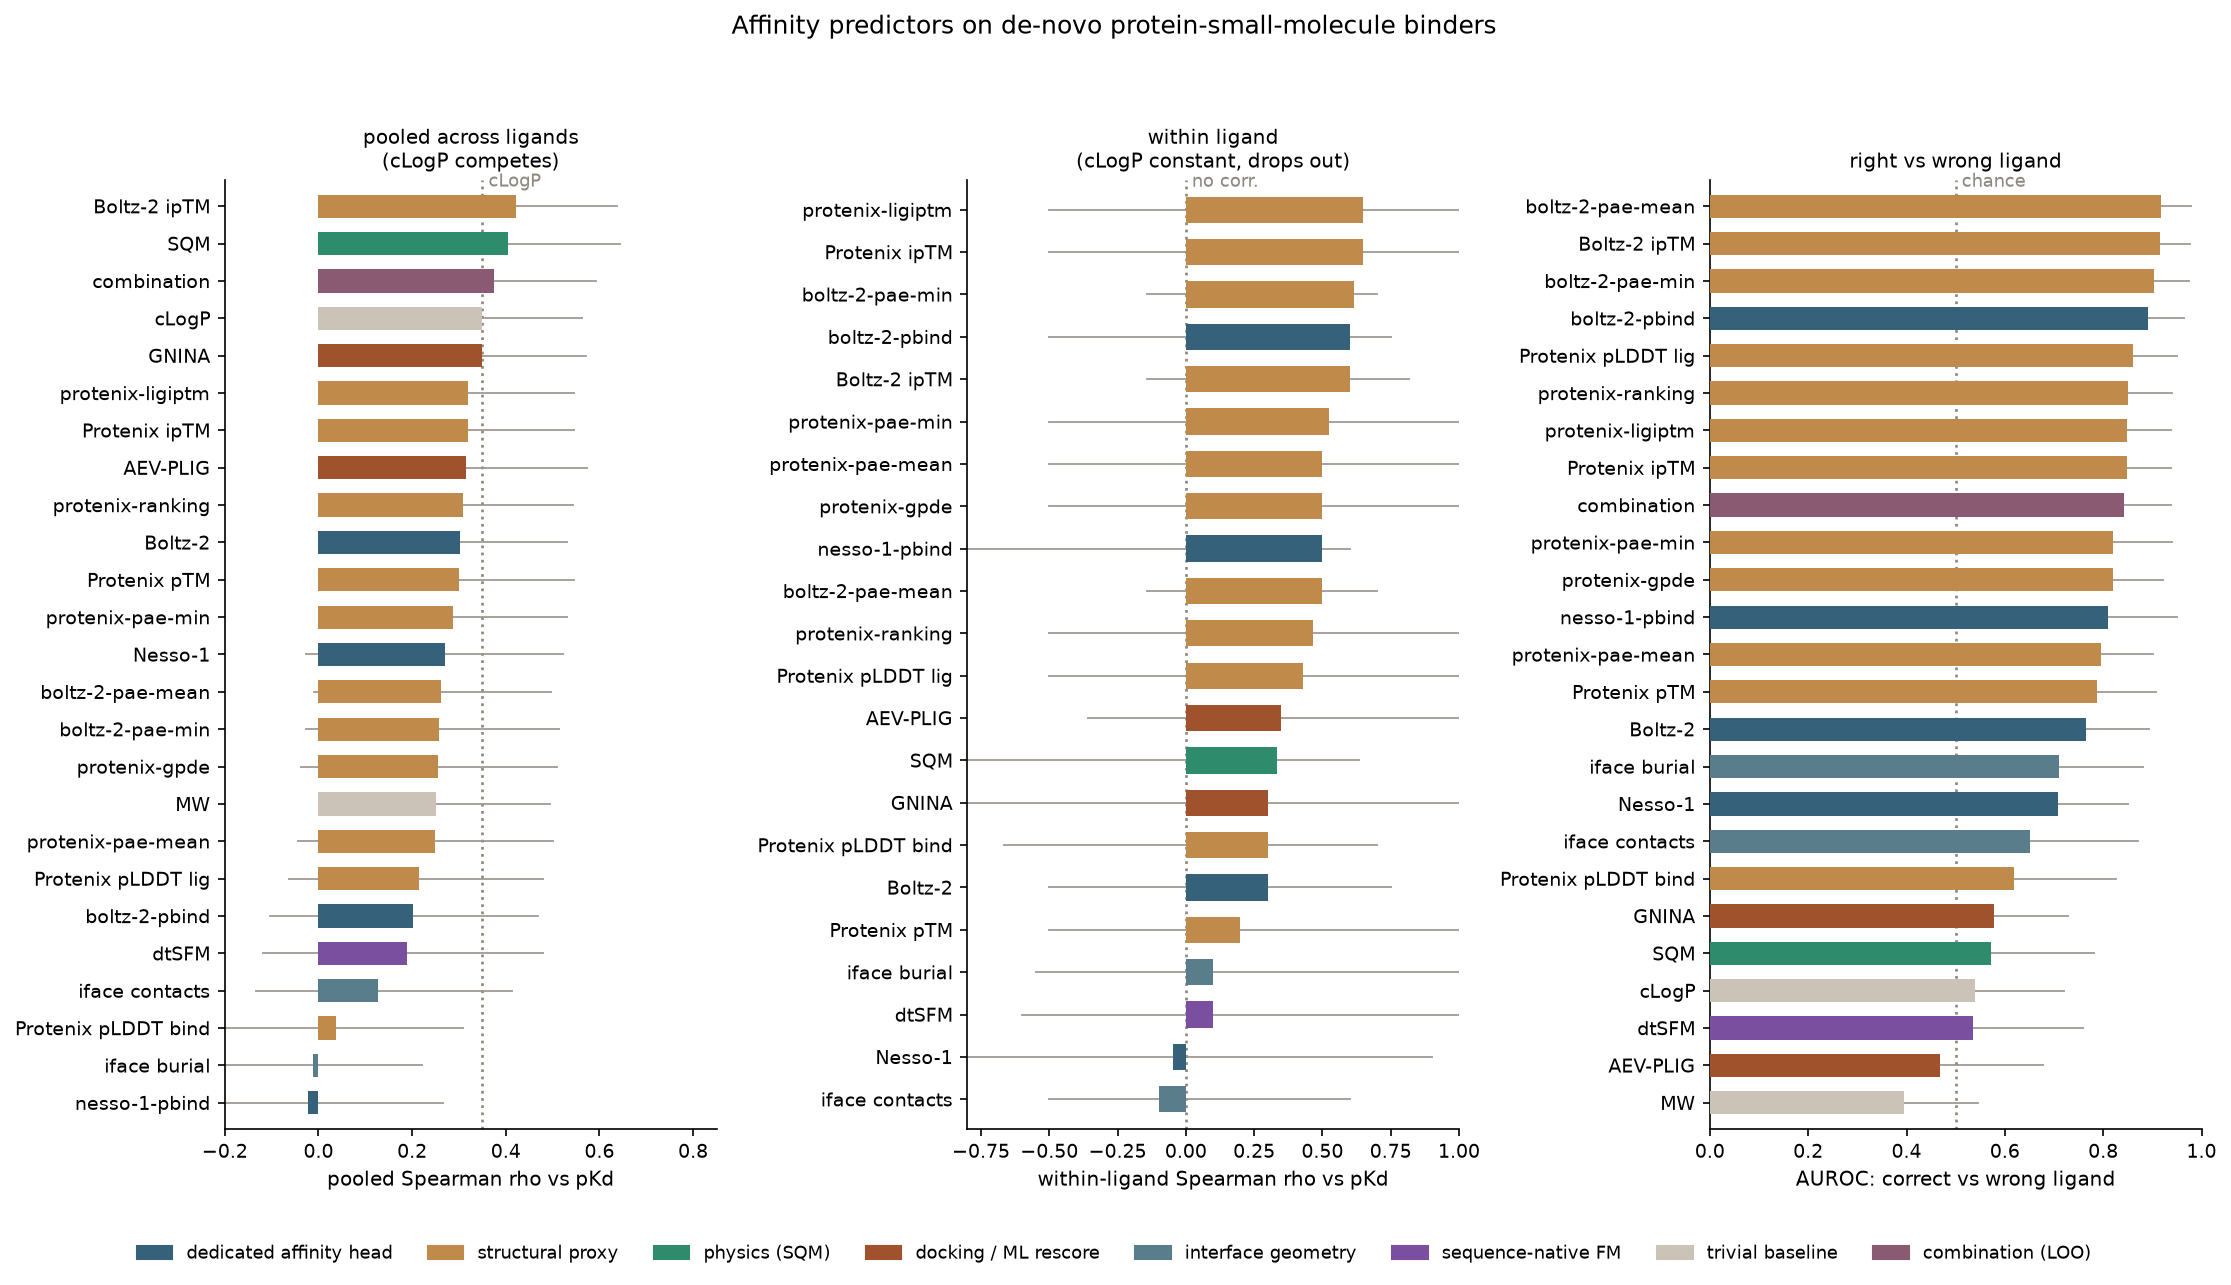
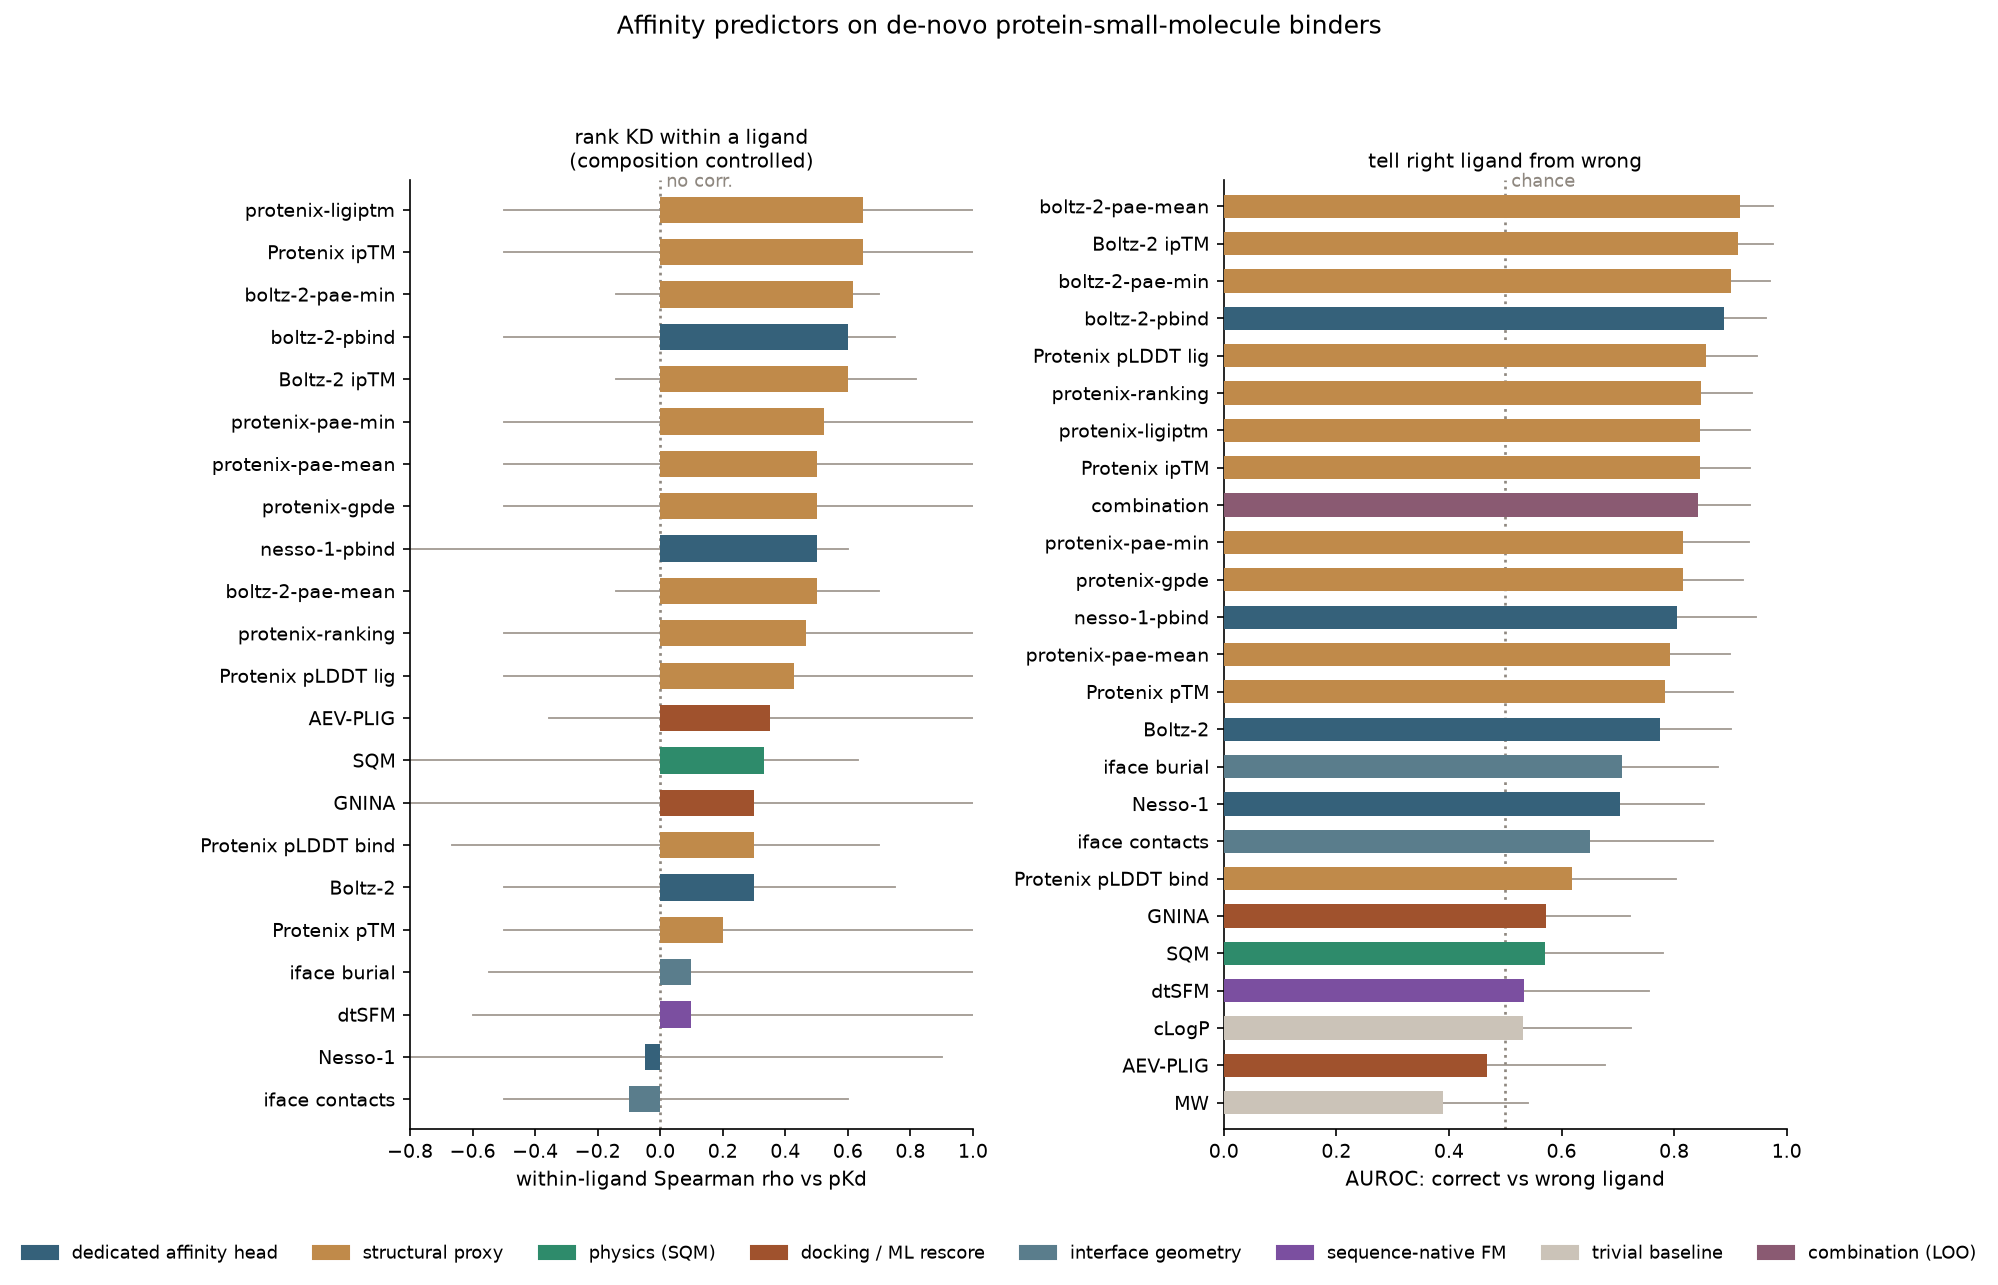
Validate dataset and remove the pooled-correlation artifact
Dataset: remove system 60 (rhobin9/JFX646), which carried JF646's exact SMILES despite being a
distinct dye with a different KD (one SMILES was wrong and JFX646's true structure is not verifiable
from the source). Now 60 systems = 49 binders + 11 non-binders. Also correct the negatives
description: 8 are a binder's protein with a wrong ligand, 3 are non-binding design variants. Add a
validation test (every SMILES parses, every sequence valid, no duplicate sequence+SMILES, pKd in
range) that would have caught the duplicate; CI installs rdkit for it.

Presentation: drop the pooled Spearman panel from the figures. Across 19 ligands it is confounded by
ligand composition (cLogP 'wins' as an artifact), so only the composition-controlled axes are shown:
within-ligand rank-pKd and right-vs-wrong-ligand AUROC. score.py still prints the pooled numbers for
transparency. README, figures, tests, and counts updated accordingly; within-ligand and AUROC
findings are unchanged by the removal.

diff --git a/scripts/make_figure.py b/scripts/make_figure.py
@@ -19,7 +19,6 @@ from score import (
     bootstrap_ci,
     combine_loo,
     load,
-    spearman,
     within_ligand_rho,
 )
 
@@ -58,23 +57,21 @@ def _wlig_ci(per, n):
 
 
 def stats(rows, methods):
-    binders = [r for r in rows if r["is_binder"] == 1 and r["pKd"] is not None]
-    reg, wlig, spec = [], [], []
+    # Pooled Spearman is omitted on purpose: across the set's many ligands it is confounded by
+    # ligand composition (cLogP "wins" as an artifact), so only the composition-controlled axes are
+    # shown. score.py still prints the pooled numbers for transparency.
+    wlig, spec = [], []
     for m in methods:
         sgn = -1 if m in LOWER_BETTER else 1
-        bx, by = zip(*[(sgn * r[m], r["pKd"]) for r in binders if r.get(m) is not None], strict=True)
-        reg.append((PRETTY.get(m, m), spearman(list(bx), list(by)),
-                    *bootstrap_ci(list(bx), list(by), spearman), CAT[m]))
         med, per, ng = within_ligand_rho(rows, m)
         if med is not None:
             wlig.append((PRETTY.get(m, m), *_wlig_ci(per, ng), CAT[m]))
         sx, sl = zip(*[(sgn * r[m], r["is_binder"]) for r in rows if r.get(m) is not None], strict=True)
         spec.append((PRETTY.get(m, m), auroc(list(sx), list(sl)),
                      *bootstrap_ci(list(sx), list(sl), auroc), CAT[m]))
-    (rp, ry), (sp, sy) = combine_loo(rows)
-    reg.append(("combination", spearman(rp, ry), *bootstrap_ci(rp, ry, spearman), "combo"))
+    (_, _), (sp, sy) = combine_loo(rows)
     spec.append(("combination", auroc(sp, sy), *bootstrap_ci(sp, sy, auroc), "combo"))
-    return reg, wlig, spec
+    return wlig, spec
 
 
 def bars(ax, data, ref, ref_label, xlabel, xlim):
@@ -93,16 +90,13 @@ def bars(ax, data, ref, ref_label, xlabel, xlim):
         ax.spines[s].set_visible(False)
 
 
-def render(reg, wlig, spec, out, height):
-    fig, (a, b, c) = plt.subplots(1, 3, figsize=(15, height))
-    clogp_rho = next(v for lab, v, *_ in reg if lab == "cLogP")
-    bars(a, reg, clogp_rho, "cLogP", "pooled Spearman rho vs pKd", (-0.2, 0.85))
-    bars(b, wlig, 0.0, "no corr.", "within-ligand Spearman rho vs pKd", (-0.8, 1.0))
-    bars(c, spec, 0.5, "chance", "AUROC: correct vs wrong ligand", (0.0, 1.0))
-    a.set_title("pooled across ligands\n(cLogP competes)", fontsize=9.5)
-    b.set_title("within ligand\n(cLogP constant, drops out)", fontsize=9.5)
-    c.set_title("right vs wrong ligand", fontsize=9.5)
-    present = {d[4] for d in reg}
+def render(wlig, spec, out, height):
+    fig, (a, b) = plt.subplots(1, 2, figsize=(11, height))
+    bars(a, wlig, 0.0, "no corr.", "within-ligand Spearman rho vs pKd", (-0.8, 1.0))
+    bars(b, spec, 0.5, "chance", "AUROC: correct vs wrong ligand", (0.0, 1.0))
+    a.set_title("rank KD within a ligand\n(composition controlled)", fontsize=9.5)
+    b.set_title("tell right ligand from wrong", fontsize=9.5)
+    present = {d[4] for d in spec}
     cats = [c for c in ("aff", "prox", "phys", "dock", "iface", "seq", "base", "combo") if c in present]
     handles = [plt.Rectangle((0, 0), 1, 1, color=COL[c]) for c in cats]
     fig.legend(handles, [LABEL[c] for c in cats], fontsize=8.5, loc="lower center",

diff --git a/tests/test_benchmark.py b/tests/test_benchmark.py
@@ -48,15 +48,38 @@ def test_rmse():
 
 def test_dataset_shape():
     rows, methods = score.load()
-    assert len(rows) == 61
+    assert len(rows) == 60
     binders = [r for r in rows if r["is_binder"] == 1]
     negs = [r for r in rows if r["is_binder"] == 0]
-    assert len(binders) == 50
+    assert len(binders) == 49
     assert len(negs) == 11
     assert all(r["pKd"] is not None for r in binders), "every binder must carry a measured pKd"
+    assert all(r["pKd"] is None for r in negs), "negatives must not carry a pKd"
     assert len(methods) >= 16
     for m in ("boltz-2", "clogp", "protenix-iptm", "dtsfm-cosine"):
         assert m in methods
+
+
+def test_dataset_validated():
+    """Integrity checks that must hold for every system (would have caught the JF646/JFX646 dup)."""
+    from rdkit import Chem, RDLogger
+    RDLogger.DisableLog("rdApp.*")
+    sysref = list(csv.DictReader(
+        (ROOT / "reference/system_reference.csv").read_text().splitlines()))
+    aa = set("ACDEFGHIKLMNPQRSTVWY")
+    seen_pairs = set()
+    for r in sysref:
+        seq, smi = r["sequence"].strip().upper(), r["smiles"].strip()
+        assert seq and not (set(seq) - aa), f"{r['id']}: invalid sequence"
+        assert Chem.MolFromSmiles(smi) is not None, f"{r['id']}: unparseable SMILES"
+        assert all(r[c].strip() for c in ("protein", "ligand_name", "source")), f"{r['id']}: missing field"
+        pair = (seq, smi)
+        assert pair not in seen_pairs, f"{r['id']}: duplicate (sequence, smiles) pair"
+        seen_pairs.add(pair)
+    pkds = [float(r["experimental_pKD"]) for r in csv.DictReader(
+        (ROOT / "reference/experimental_reference_ground_truth.csv").read_text().splitlines())
+        if r["experimental_pKD"].strip()]
+    assert all(2.0 <= p <= 13.0 for p in pkds), "pKd outside a sane range"
 
 
 def test_within_ligand_drops_constant_ligand_properties():

diff --git a/README.md b/README.md
@@ -6,41 +6,36 @@ Do protein-ligand affinity predictors work on **de-novo designed** binders? Affi
 score them on natural targets; this is a small complementary split built from published de-novo
 designs.
 
-**61 protein-ligand pairs:**
-- **50 binders** with a measured KD (pKd).
-- **11 matched negatives**: the same designed protein paired with a *wrong* ligand (confirmed
-  non-binding), so a predictor has to read the interface, not the fold alone.
+**60 protein-ligand pairs:**
+- **49 binders** with a measured KD (pKd).
+- **11 confirmed non-binders**: 8 are a binder's protein paired with a *wrong* ligand, 3 are
+  non-binding design variants. Either way a predictor has to read the interface, not the fold alone.
 
-Affinity ranking is scored two ways, and the difference is the main lesson here. **Pooled** Spearman
-runs across all 50 binders at once; because they span 19 different ligands, a pooled correlation is
-dominated by ligand composition (cLogP) rather than the interface. **Within-ligand** Spearman instead
-ranks the de-novo proteins that bind the *same* ligand and takes the median across ligands (the
-analog of the within-target correlation used on de-novo protein sets); a ligand-only score like cLogP
-is constant within a group and drops out, so this isolates whether a method reads the interface.
-Classification (right vs wrong ligand) is one AUROC over all 61. Cofolder affinity heads are
-converted to `pK = 6 - affinity_pred_value`.
+Affinity is ranked **within-ligand**: among the de-novo proteins that bind the *same* ligand, Spearman
+of a metric against pKd, median across ligands (the analog of the within-target correlation used on
+de-novo protein sets). This is reported rather than a pooled Spearman across all binders on purpose:
+the set spans 19 ligands, and a pooled correlation is dominated by ligand composition (cLogP) instead
+of the interface, so pooled numbers are a confound, not a result. A ligand-only score like cLogP is
+constant within a ligand and drops out, which is the point. Classification (right vs wrong ligand) is
+one AUROC over all 60. Cofolder affinity heads are converted to `pK = 6 - affinity_pred_value`.
 
 ## Results
 
 ![benchmark](figures/benchmark.png)
 
-Three panels: pooled rank-pKd (left), within-ligand rank-pKd (middle), and right-vs-wrong-ligand
-AUROC (right). Bars are 95% bootstrap CIs. The full leaderboard (all metrics) is in
-[`figures/benchmark_full.png`](figures/benchmark_full.png), and `score.py` prints every number.
+Two panels: within-ligand rank-pKd (left, composition controlled) and right-vs-wrong-ligand AUROC
+(right). Bars are 95% bootstrap CIs. The full leaderboard (all metrics) is in
+[`figures/benchmark_full.png`](figures/benchmark_full.png), and `score.py` prints every number
+(including the pooled numbers, kept only for transparency).
 
-- **Pooled, composition wins and nothing beats it.** No method clears lipophilicity by a meaningful
-  margin: cLogP +0.35, the affinity heads +0.27 to +0.30, structural confidence +0.32 to +0.42. But
-  cLogP is a ligand property, so a pooled correlation across 19 ligands is largely reading
-  composition, not binding. This is a confound, not a result.
-- **Within ligand, the confound lifts and interface confidence leads.** Controlling for the molecule
-  (median over the 5 ligands with >= 3 protein binders), cLogP and MW are constant and drop out
-  entirely, and the co-folders' interface-confidence metrics come to the front: Protenix ipTM / lig-ipTM
-  +0.65, Boltz-2 ipTM +0.60, Protenix pLDDT-ligand +0.43, interface-PAE in the same band. The physics
-  and ML rescorers are middling (SQM +0.33, AEV-PLIG +0.35, GNINA +0.30) and the affinity heads trail
-  (Boltz-2 +0.30, Nesso-1 -0.05). This is the same confidence family (iPTM, pTM, pLDDT, interface-PAE)
-  that ranks KD on de-novo *protein* sets. CIs are very wide (only 5 ligand groups, 3 to 9 binders
-  each), so the ordering is suggestive, not decisive.
-- **Specificity still belongs to the co-folders.** On telling the correct ligand from the wrong one,
+- **Within ligand, co-folder interface confidence leads.** Holding the molecule fixed (median over the
+  5 ligands with >= 3 protein binders), the interface-confidence metrics come to the front: Protenix
+  ipTM / lig-ipTM +0.65, Boltz-2 ipTM +0.60, Protenix pLDDT-ligand +0.43, interface-PAE in the same
+  band. The physics and ML rescorers are middling (SQM +0.33, AEV-PLIG +0.35, GNINA +0.30) and the
+  affinity heads trail (Boltz-2 +0.30, Nesso-1 -0.05). This is the same confidence family (iPTM, pTM,
+  pLDDT, interface-PAE) that ranks KD on de-novo *protein* sets. CIs are very wide (only 5 ligand
+  groups, 3 to 9 binders each), so the ordering is suggestive, not decisive.
+- **Specificity also belongs to the co-folders.** On telling the correct ligand from the wrong one,
   the interface-confidence metrics lead: Boltz-2 / Protenix ipTM 0.85 to 0.91, Protenix pLDDT-ligand
   0.86, pTM 0.79. cLogP, dtSFM, and the physics/ML rescorers are near chance. A pure-geometry pose
   baseline, ligand burial (`interface-ligburial`, fraction of the ligand within 4.5 A of the protein),
@@ -51,19 +46,14 @@ AUROC (right). Bars are 95% bootstrap CIs. The full leaderboard (all metrics) is
   novo (AUROC 0.53, within-ligand +0.10), yet its featurization validates on in-distribution natural
   pairs (true-vs-shuffled AUROC 0.863; `scripts/run_dtsfm.py` gates on that positive control first).
 
-> An earlier version of this README read the pooled numbers as "SQM, a physics scorer, matches the
-> best co-folder and beats cLogP." The within-ligand control shows that was a composition artifact:
-> SQM is middling once the ligand is held fixed, and cLogP cannot compete at all.
-
 | task | best single | cLogP | combination (LOO) |
 |---|---|---|---|
-| rank pKd, pooled (Spearman) | +0.42 | +0.35 | +0.37 (tied) |
-| rank pKd, within-ligand (median Spearman) | +0.65 | n/a (constant) | not defined |
-| tell right from wrong ligand (AUROC) | 0.91 | 0.54 | 0.84 |
+| rank pKd, within-ligand (median Spearman) | +0.65 | n/a (constant per ligand) | not defined |
+| tell right from wrong ligand (AUROC) | 0.91 | 0.53 | 0.84 |
 
 ## Caveats
 
-Small n (50 + 11): CIs are wide and orderings are suggestive. The 11 negatives are confirmed
+Small n (49 + 11): CIs are wide and orderings are suggestive. The 11 negatives are confirmed
 non-binders from a handful of designed proteins. This small n reflects the field, not the search: a
 systematic survey of the de novo literature turns up essentially no further designed binders of
 *organic* small molecules with a precise measured KD. The remaining de novo binders are
@@ -107,14 +97,12 @@ pose (the best-ranked of Protenix v2's 5 samples per system), fed to Rowan throu
 mode; SQM additionally runs a protonation (protein-preparation) step first. Wiring is in
 `scripts/run_rowan.py`.
 
-- **Pooled, SQM looks strong, but that is the composition confound.** On the pooled Spearman, SQM
-  reaches +0.40 [+0.10, +0.64] over the 46 binders it can score, apparently level with Boltz-2 ipTM
-  and above cLogP. Held to the within-ligand control, though, SQM falls to +0.33 and sits below the
-  interface-confidence metrics (ipTM ~0.6); the pooled edge was reading ligand composition, the same
-  thing cLogP reads, not the interface.
-- **The learned rescorers do not escape the wall either.** GNINA (pooled +0.35, within-ligand +0.30)
-  and AEV-PLIG (pooled +0.32, within-ligand +0.35), both trained on natural complexes (PDBbind-style),
-  track cLogP pooled and stay middling within-ligand.
+- **Physics (SQM) is middling once the ligand is controlled.** Within-ligand, SQM is +0.33, below the
+  interface-confidence metrics (ipTM ~0.6). On the confounded pooled Spearman it reaches +0.40, which
+  an earlier version of this README over-read as a physics win; that edge was ligand composition, the
+  same thing cLogP reads, not the interface.
+- **The learned rescorers do not stand out either.** GNINA (within-ligand +0.30) and AEV-PLIG
+  (+0.35), both trained on natural complexes (PDBbind-style), stay middling.
 - **None of the three help with specificity.** On telling the correct ligand from the wrong one, SQM
   (0.57), GNINA (0.58), and AEV-PLIG (0.47) are all near chance, far below co-folder ipTM (0.91).
 
@@ -122,9 +110,9 @@ So physics and docking rescoring do not beat the co-folders' own interface-confi
 the honest read is that nothing in this family clears the bar that ipTM already sets within-ligand.
 
 Caveats: SQM's truncated-pocket energies are noisy (cut salt bridges leave some pockets
-electrostatically incomplete). Neither SQM nor AEV-PLIG can score the four silicon-rhodamine dye
+electrostatically incomplete). Neither SQM nor AEV-PLIG can score the three silicon-rhodamine dye
 systems (COSMO2 has no Si parameters; AEV-PLIG rejects the Si poses), so those cells are blank; GNINA
-scores all 61.
+scores all 60.
 
 ## Layout
 
@@ -139,13 +127,14 @@ Every `predictions/*.csv` joins to the reference by `id` and is scored automatic
 ## Tests
 
 ```
-pip install numpy scikit-learn pytest
+pip install numpy scikit-learn rdkit pytest
 pytest -q
 ```
 
 `tests/` covers the scoring statistics (Spearman, Pearson, AUROC, RMSE), dataset integrity
-(61 systems = 50 binders + 11 negatives, every prediction joins to the ground truth), and that
-`score.py` runs end to end. CI (ruff lint + pytest) runs on every push.
+(60 systems = 49 binders + 11 negatives, every prediction joins to the ground truth) and validation
+(every SMILES parses, every sequence is valid, no two systems share the same sequence and SMILES, pKd
+in range), and that `score.py` runs end to end. CI (ruff lint + pytest) runs on every push.
 
 ## Reproduce
 
